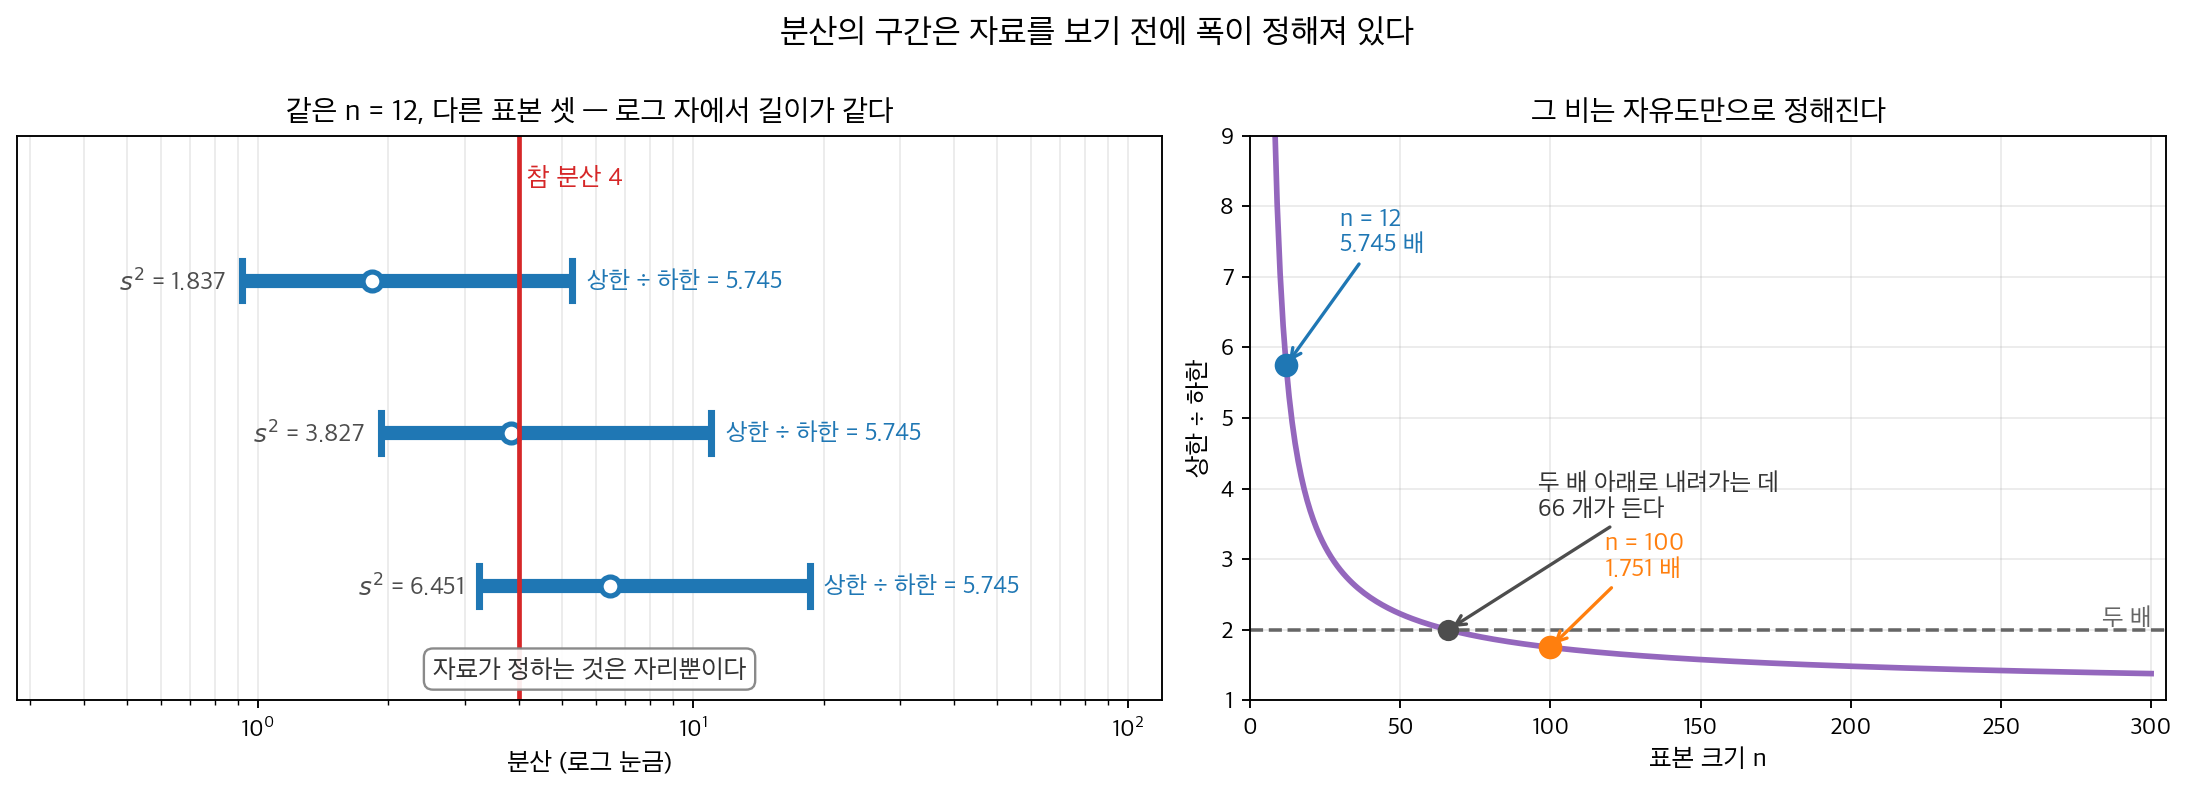
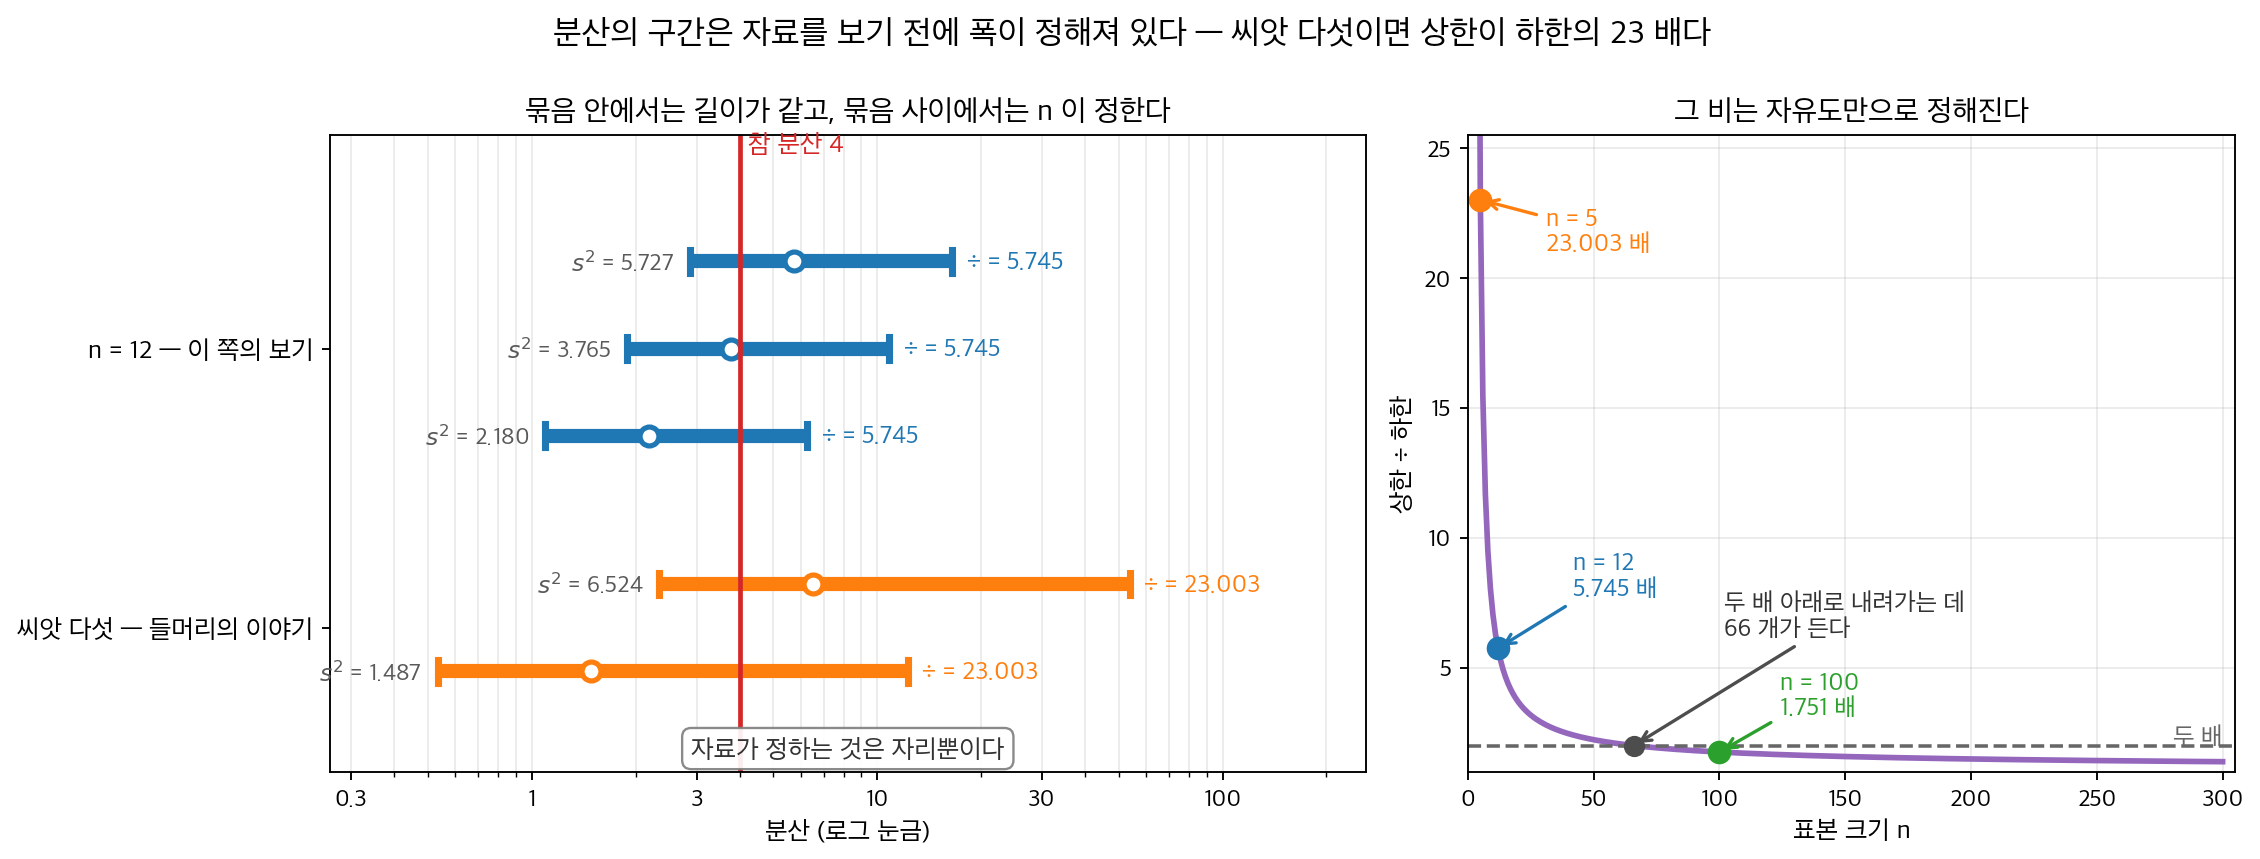
docs(ch08): σ²의 신뢰구간 들머리 — 상자와 갈라 세우고 이야기의 n 에 내렸다
앞의 두 쪽과 달리 여기는 들머리의 이야기가 이 쪽의 주제가 맞다.
문제는 다른 둘이었다.

- **들머리와 상자가 같은 일화를 양쪽에서 처음부터 한다.** 제목이
  「다섯 번 돌려 적은 ±」이고 상자 제목이 「다섯 번 돌려 적은 ±s 가
  말하는 것」이다. 들머리가 0.6 배·2.9 배와 「74.2 ± 0.8」 을 적고
  상자가 그 둘을 다시 적는다. 들머리는 물음을 세우고 넘겨야 하는데
  상자의 결론을 미리 써 버렸다. 제목을 「폭을 정한 것은 자료가
  아니다」로 바꾸고, 배수 이야기는 상자에 돌려주었다
- **주장이 이야기의 n 에 내려앉지 않았다.** 이야기는 씨앗 다섯인데
  주장이 n = 12 에서 시작했고, 둘을 잇는 문장이 없었다. 다섯에서의
  비를 재니 **23.003 배**다 — 이 쪽 어디에도 없던 수다.
  (상자의 [0.60, 2.87] 은 σ 눈금이라 4.8 배다. 분산 눈금의 23 배와
  다른 수이고, 폭을 말하는 것은 뒤쪽이다)
- **「치우침이 아니라 꼬리의 두께다」가 주장만 있고 근거가 없었다.**
  §3 이 지수와 t5 의 초과첨도가 둘 다 6 이라 적지만 들머리에는
  대칭인데 무너지는 보기도, 치우쳤는데 버티는 보기도 없었다.
  n = 25 에서 재어 둘을 넣었다 — t5 는 완전히 대칭인데 0.835,
  치우침 0.5 인 감마는 0.932 다

그림도 이야기의 n 에 맞췄다. 로그 축의 「길이가 같다」 시연을 n = 12
하나에서 **씨앗 다섯 묶음과 n = 12 묶음** 둘로 늘렸다. 묶음 안에서는
표본이 달라도 길이가 같고, 묶음 사이에서는 n 이 길이를 정한다.
오른쪽 곡선에도 n = 5 를 찍었다.

ch08 검사 전부 0, mkdocs build --strict 통과.

diff --git a/scripts/make_ch08_sigma_ratio_fixed.py b/scripts/make_ch08_sigma_ratio_fixed.py
@@ -1,13 +1,15 @@
 """8.2절 σ²의 신뢰구간 — 길이는 자료가 정하지 않는다.
 
-들머리의 문장 하나를 그린다. 분산의 카이제곱 구간은 상한이 하한의 몇
-배인지가 **자료를 보기 전에** 정해져 있다 --- 그 비가 자유도만으로
-결정되기 때문이다. n = 12 에서 21.920/3.816 = 5.744 배이고, n = 100 에서도
-1.751 배로밖에 줄지 않는다.
+들머리의 주장을 그린다. 분산의 카이제곱 구간은 상한이 하한의 몇 배인지가
+**자료를 보기 전에** 정해져 있다 --- 그 비가 자유도만으로 결정되기
+때문이다. 들머리의 이야기인 **씨앗 다섯**에서 23.003 배이고, 쪽의 보기인
+n = 12 에서 5.745 배, n = 100 에서도 1.751 배로밖에 줄지 않는다.
 
-왼쪽은 그것을 로그 축에서 보인다. 표본마다 s 가 달라 구간의 **자리**는
-옮겨 가지만 **로그 자에서의 길이**는 모두 같다. 오른쪽은 그 비가 n 에
-따라 줄어드는 꼴이다.
+왼쪽은 그것을 로그 축에서 보인다. 두 묶음을 함께 놓는다 --- 처음에 n = 12
+하나만 그렸는데, 들머리의 이야기가 **다섯 번 돌린 ±** 여서 주장이 그
+이야기의 n 에 내려앉지 않았다. 묶음 **안에서는** 표본이 달라도 로그 자
+위 길이가 같고, 묶음 **사이에서는** n 이 길이를 정한다. 오른쪽은 그 비가
+n 에 따라 줄어드는 꼴이다.
 
 쪽의 2 절 그림 ci_sigma2_103 은 선형 축에 구간 100 개를 쌓아 포함률을
 보이는 것이고, 상자의 sigma_uncertainty 는 sigma/s 구간과 비대칭과
@@ -42,40 +44,51 @@ def interval(s2, n=N0):
 
 
 rng = np.random.default_rng(812)
-s2s = np.array([(rng.normal(0, np.sqrt(SIGMA2), N0)).var(ddof=1)
-                for _ in range(400)])
-pick = [int(np.argmin(np.abs(s2s - q)))
-        for q in np.quantile(s2s, [0.08, 0.5, 0.92])]
+GROUPS = [(5, "씨앗 다섯 — 들머리의 이야기", "tab:orange", 2),
+          (12, "n = 12 — 이 쪽의 보기", "tab:blue", 3)]
 
-fig, (ax1, ax2) = plt.subplots(1, 2, figsize=(13.0, 4.6),
-                               gridspec_kw={"width_ratios": [1.25, 1]})
+fig, (ax1, ax2) = plt.subplots(1, 2, figsize=(13.4, 5.0),
+                               gridspec_kw={"width_ratios": [1.35, 1]})
 
-# ── (좌) 자리는 옮겨 가도 로그 길이는 같다 ──────────────────────────
-for j, idx in enumerate(pick):
-    s2 = s2s[idx]
-    lo, hi = interval(s2)
-    y = 2 - j
-    ax1.plot([lo, hi], [y, y], "-", lw=6.0, color="tab:blue",
-             solid_capstyle="butt")
-    for x in (lo, hi):
-        ax1.plot([x, x], [y - 0.13, y + 0.13], "-", lw=3.0, color="tab:blue")
-    ax1.plot([s2], [y], "o", ms=8, color="white", mec="tab:blue", mew=2.2)
-    ax1.text(lo * 0.92, y, f"$s^2$ = {s2:.3f}", ha="right", va="center",
-             fontsize=10.5, color="0.3")
-    ax1.text(hi * 1.08, y, f"상한 ÷ 하한 = {hi / lo:.3f}", ha="left",
-             va="center", fontsize=10.5, color="tab:blue", fontweight="bold")
+# ── (좌) 묶음 안에서는 길이가 같고, 묶음 사이에서는 n 이 정한다 ─────
+y = 0.0
+yticks, ylabs = [], []
+for n, lab, col, m in GROUPS:
+    s2s = np.array([(rng.normal(0, np.sqrt(SIGMA2), n)).var(ddof=1)
+                    for _ in range(400)])
+    qs = [0.12, 0.5, 0.88][:m] if m == 3 else [0.15, 0.85]
+    pick = [int(np.argmin(np.abs(s2s - q))) for q in np.quantile(s2s, qs)]
+    y0 = y
+    for idx in pick:
+        s2 = s2s[idx]
+        lo, hi = interval(s2, n)
+        ax1.plot([lo, hi], [y, y], "-", lw=6.0, color=col,
+                 solid_capstyle="butt")
+        for x in (lo, hi):
+            ax1.plot([x, x], [y - 0.13, y + 0.13], "-", lw=3.0, color=col)
+        ax1.plot([s2], [y], "o", ms=8, color="white", mec=col, mew=2.2)
+        ax1.text(lo * 0.90, y, f"$s^2$ = {s2:.3f}", ha="right", va="center",
+                 fontsize=10, color="0.35")
+        ax1.text(hi * 1.10, y, f"÷ = {hi / lo:.3f}", ha="left", va="center",
+                 fontsize=10.5, color=col, fontweight="bold")
+        y += 1.0
+    yticks.append((y0 + y - 1) / 2)
+    ylabs.append(lab)
+    y += 0.7
 ax1.axvline(SIGMA2, color="tab:red", lw=2.0)
-ax1.text(SIGMA2 * 1.04, 2.62, f"참 분산 {SIGMA2:.0f}", fontsize=11,
+ax1.text(SIGMA2 * 1.06, y - 0.45, f"참 분산 {SIGMA2:.0f}", fontsize=11,
          color="tab:red", fontweight="bold")
 ax1.set_xscale("log")
-ax1.set_xlim(0.28, 120)
-ax1.set_ylim(-0.75, 2.95)
-ax1.set_yticks([])
+ax1.set_xlim(0.26, 260)
+ax1.set_xticks([0.3, 1, 3, 10, 30, 100],
+               ["0.3", "1", "3", "10", "30", "100"])
+ax1.set_ylim(-1.15, y - 0.25)
+ax1.set_yticks(yticks, ylabs, fontsize=11)
 ax1.set_xlabel("분산 (로그 눈금)", fontsize=11)
-ax1.set_title(f"같은 n = {N0}, 다른 표본 셋 — 로그 자에서 길이가 같다",
+ax1.set_title("묶음 안에서는 길이가 같고, 묶음 사이에서는 n 이 정한다",
               fontsize=12.5)
 ax1.grid(axis="x", alpha=0.25, which="both")
-ax1.text(0.5, 0.035, "자료가 정하는 것은 **자리**뿐이다".replace("**", ""),
+ax1.text(0.5, 0.018, "자료가 정하는 것은 자리뿐이다",
          transform=ax1.transAxes, ha="center", va="bottom", fontsize=11,
          fontweight="bold", color="0.2",
          bbox=dict(boxstyle="round,pad=0.35", facecolor="white", alpha=0.92,
@@ -87,35 +100,36 @@ ax2.plot(NS, r, color="tab:purple", lw=2.4)
 ax2.axhline(2.0, color="0.4", ls="--", lw=1.5)
 need2 = int(NS[r < 2.0][0])
 ax2.text(300, 2.06, "두 배", ha="right", fontsize=10.5, color="0.4")
-for n, c in ((12, "tab:blue"), (100, "tab:orange")):
+for n, c, dx, dy in ((5, "tab:orange", 26, -2.0), (12, "tab:blue", 30, 2.0),
+                     (100, "tab:green", 24, 1.4)):
     ax2.plot([n], [ratio(n)], "o", ms=9, color=c)
     ax2.annotate(f"n = {n}\n{ratio(n):.3f} 배", xy=(n, ratio(n)),
-                 xytext=(n + 18, ratio(n) + (1.6 if n == 12 else 1.0)),
+                 xytext=(n + dx, ratio(n) + dy),
                  fontsize=10.5, color=c, fontweight="bold",
                  arrowprops=dict(arrowstyle="->", color=c, lw=1.4))
 ax2.plot([need2], [ratio(need2)], "o", ms=8, color="0.3")
 ax2.annotate(f"두 배 아래로 내려가는 데\n{need2} 개가 든다",
-             xy=(need2, 2.0), xytext=(need2 + 30, 3.6), fontsize=10.5,
+             xy=(need2, 2.0), xytext=(need2 + 36, 6.2), fontsize=10.5,
              color="0.2", fontweight="bold",
              arrowprops=dict(arrowstyle="->", color="0.3", lw=1.4))
 ax2.set_xlim(0, 305)
-ax2.set_ylim(1.0, 9.0)
+ax2.set_ylim(1.0, 25.5)
 ax2.set_xlabel("표본 크기 n", fontsize=11)
 ax2.set_ylabel("상한 ÷ 하한", fontsize=11)
 ax2.set_title("그 비는 자유도만으로 정해진다", fontsize=12.5)
 ax2.grid(alpha=0.25)
 
-fig.suptitle("분산의 구간은 자료를 보기 전에 폭이 정해져 있다", fontsize=14,
-             y=1.0)
+fig.suptitle("분산의 구간은 자료를 보기 전에 폭이 정해져 있다 — "
+             "씨앗 다섯이면 상한이 하한의 23 배다", fontsize=14, y=1.0)
 plt.tight_layout()
 path = OUT + "sigma_ratio_fixed.png"
 fig.savefig(path, dpi=170, facecolor="white", bbox_inches="tight")
 print("saved", path)
 
+print("\n상한 ÷ 하한 — 자유도만으로 정해진다")
+for n in (3, 5, 12, 25, need2, 100):
+    print(f"  n = {n:3d} (자유도 {n-1:3d}): {ratio(n):8.3f} 배"
+          f"   (σ 로는 {np.sqrt(ratio(n)):.3f} 배)")
 print(f"\nn = {N0}: chi2 임계값 {stats.chi2.ppf(0.025, N0-1):.3f} 과 "
-      f"{stats.chi2.ppf(0.975, N0-1):.3f}  →  비 {ratio(N0):.4f}")
-print(f"n = 100: 비 {ratio(100):.4f}")
-for idx in pick:
-    s2 = s2s[idx]; lo, hi = interval(s2)
-    print(f"  s^2 = {s2:.4f}  구간 ({lo:.4f}, {hi:.4f})  비 {hi/lo:.4f}")
+      f"{stats.chi2.ppf(0.975, N0-1):.3f}")
 print(f"비가 두 배 아래로 내려가는 첫 n = {need2} (비 {ratio(need2):.4f})")

diff --git a/docs/ch08/one_sample_intervals/ci_sigma2.md b/docs/ch08/one_sample_intervals/ci_sigma2.md
@@ -4,18 +4,22 @@
 
 <div class="leadbox" markdown>
 
-**들어가는 이야기** — 다섯 번 돌려 적은 ±
+**들어가는 이야기** — 폭을 정한 것은 자료가 아니다
 
-기계학습 논문과 보고서는 같은 실험을 **씨앗**(seed) — 난수를 어디서 시작할지 정하는 수 — 만 바꾸어 셋이나 다섯 번 돌린 뒤, 결과를 「$74.2 \pm 0.8$」 처럼 적는다. 그 $0.8$ 은 다섯 번의 흩어짐을 잰 표본표준편차 $s$ 다. 그런데 **다섯 번으로 잰 흩어짐은 참 흩어짐이 아니다.** 같은 식으로 재면 참 $\sigma$ 가 $s$ 의 $0.6$ 배일 수도 $2.9$ 배일 수도 있다. 그래서 그 $\pm$ 뒤에는 **몇 번 돌렸는지**가 함께 적혀 있어야 한다. 그 $\pm$ 가 무엇을 말하고 무엇을 말하지 않는지는 아래 상자가 끝까지 따라간다.
+기계학습 논문과 보고서는 같은 실험을 **씨앗**(seed) — 난수를 어디서 시작할지 정하는 수 — 만 바꾸어 셋이나 다섯 번 돌린 뒤, 결과를 「$74.2 \pm 0.8$」 처럼 적는다. 그 $0.8$ 은 다섯 번의 흩어짐을 잰 표본표준편차 $s$ 이고, 참 흩어짐이 어디쯤인지를 적으려면 이 쪽이 세우는 구간이 필요하다. 그 구간을 세워 놓고 보면 평균의 구간과 **두 군데**가 다르다.
 
-그 넓이는 이 쪽이 세우는 구간에서 바로 나온다. 같은 표본 열둘로 평균과 분산을 함께 짚으면 정밀도가 자릿수로 갈린다. $\mu$ 의 $t$ 구간은 $\bar x \pm 0.635\,s$ 로 제법 좁은데, $\sigma^2$ 의 구간은 임계값이 $3.816$ 과 $21.920$ 이라 **상한이 하한의 $5.745$ 배**다 — 그리고 이 비는 **자료를 보기 전에 이미 정해져** $n = 100$ 에서도 $1.751$ 배로밖에 줄지 않는다.
+**첫째, 폭을 자료가 정하지 않는다.** 같은 다섯 번에서 분산의 $95\%$ 구간은 상한이 하한의 $23.003$ 배다. 그런데 그 $23.003$ 은 **자료를 보기 전에 이미 정해져 있다** — 자유도만으로 결정되므로 어떤 표본이 나오든 같은 수다. 평균의 구간에서는 이런 일이 없다. 거기서는 $s$ 가 폭을 직접 정하므로 표본마다 길이가 달라진다. 이 쪽이 쓰는 표본 열둘에서는 $5.745$ 배, $n = 100$ 에서도 $1.751$ 배이고, **상한이 하한의 두 배 안으로 들어오는 데만 $66$ 개**가 든다.
 
 <figure markdown>
-![왼쪽은 같은 크기 열둘의 표본 셋에서 만든 분산 구간을 로그 눈금에 그린 것으로, 표본분산이 1.837 과 3.827 과 6.451 로 서로 다른데 세 구간의 로그 자 위 길이가 똑같고 상한을 하한으로 나눈 값이 모두 5.745 다. 오른쪽은 그 비가 표본 크기에 따라 줄어드는 곡선으로, 12 에서 5.745 이고 100 에서 1.751 이며 두 배 선을 66 에서 지난다](./img/sigma_ratio_fixed.png){ width="940" }
-  <figcaption markdown>**왼쪽.** 표본분산이 $1.837$ 이든 $6.451$ 이든 상한을 하한으로 나눈 값이 똑같이 $5.745$ 다. 로그 눈금에서 길이가 같은 것이 그 뜻이다 — **자료가 정하는 것은 구간의 자리뿐이고 폭은 자유도가 미리 정해 둔다.** 평균의 구간에서는 이런 일이 없다. 거기서는 $s$ 가 폭을 직접 정하므로 표본마다 길이가 달라진다. **오른쪽.** 그 비가 줄어드는 속도다. $n = 12$ 에서 $5.745$, $n = 100$ 에서도 $1.751$ 이고, **상한이 하한의 두 배 안으로 들어오는 데만 $66$ 개**가 든다. 이 $66$ 은 이 책이 따져 본 값이다.</figcaption>
+![왼쪽은 분산 구간 다섯 개를 로그 눈금에 그린 것으로, 위의 세 개는 크기 열둘의 표본에서 나와 표본분산이 서로 다른데도 로그 자 위 길이가 똑같고 상한을 하한으로 나눈 값이 모두 5.745 이며, 아래 두 개는 크기 다섯의 표본에서 나와 훨씬 길고 그 값이 모두 23.003 이다. 오른쪽은 그 비가 표본 크기에 따라 줄어드는 곡선으로, 5 에서 23.003 이고 12 에서 5.745 이며 100 에서 1.751 이고 두 배 선을 66 에서 지난다](./img/sigma_ratio_fixed.png){ width="940" }
+  <figcaption markdown>**왼쪽.** 묶음 **안에서는** 표본분산이 $1.487$ 이든 $6.524$ 든 상한을 하한으로 나눈 값이 똑같다. 로그 눈금에서 길이가 같은 것이 그 뜻이다 — **자료가 정하는 것은 구간의 자리뿐이고 폭은 자유도가 미리 정해 둔다.** 묶음 **사이에서는** 그 길이를 $n$ 이 정한다. 평균의 구간에서는 이런 일이 없다. 거기서는 $s$ 가 폭을 직접 정하므로 같은 $n$ 안에서도 표본마다 길이가 달라진다. **오른쪽.** 그 비가 줄어드는 속도다. 들머리의 이야기인 씨앗 다섯에서 $23.003$, 이 쪽의 보기인 $n = 12$ 에서 $5.745$, $n = 100$ 에서도 $1.751$ 이고, **상한이 하한의 두 배 안으로 들어오는 데만 $66$ 개**가 든다. 이 $66$ 은 이 책이 따져 본 값이다.</figcaption>
 </figure>
 
-넓기만 한 것도 아니다. 평균이라면 중심극한정리가 모집단의 모양을 덜어 주지만 **분산에는 그 구제가 없어서**, 지수분포 자료에서는 명목 $95\%$ 가 실제로 $72\%$ 로 떨어진다. 무엇이 그것을 정하는지도 분명하다 — 치우침이 아니라 꼬리의 두께다. 분산의 구간은 왜 이렇게 넓고, 그러면서도 왜 그 넓이로도 약속을 지키지 못하는가. 이 쪽은 카이제곱 추축량을 뒤집어 그 구간을 세우고, 폭과 포함률을 함께 센다.
+**둘째, 그 넓이로도 약속을 지키지 못한다.** 평균이라면 중심극한정리가 모집단의 모양을 덜어 주는데 **분산에는 그 구제가 없다.** 지수분포 자료에서는 명목 $95\%$ 가 실제로 $72\%$ 로 떨어지고, $n$ 을 키워도 낫지 않는다 — 오히려 나빠지는 자리가 있다. 무엇이 그것을 정하는지도 분명하다. 치우침이 아니라 **꼬리의 두께**다. $t_5$ 는 완전히 대칭인데도 $n = 25$ 에서 포함률이 $0.835$ 이고, 치우침이 $0.5$ 인 감마 자료는 같은 자리에서 $0.932$ 로 거의 버틴다.
+
+분산의 구간은 왜 이렇게 넓고, 그러면서도 왜 그 넓이로도 약속을 지키지 못하는가. 이 쪽은 카이제곱 추축량을 뒤집어 그 구간을 세우고, 폭과 포함률을 함께 센다. 그러면 논문의 그 $\pm$ 는 결국 어떻게 적어야 하는가 — 아래 상자가 거기까지 따라간다.
+
+_확인한 곳 — 「$74.2 \pm 0.8$」 은 꼴을 보이려고 든 수이고 특정 논문의 값이 아니다. 구간의 비 $23.003$·$5.745$·$1.751$ 과 두 배에 드는 $66$, 그리고 $t_5$ 의 $0.835$ 와 감마 자료의 $0.932$ 는 모두 이 책이 직접 계산하거나 되풀이해 재어 본 값이다_
 
 </div>
 
